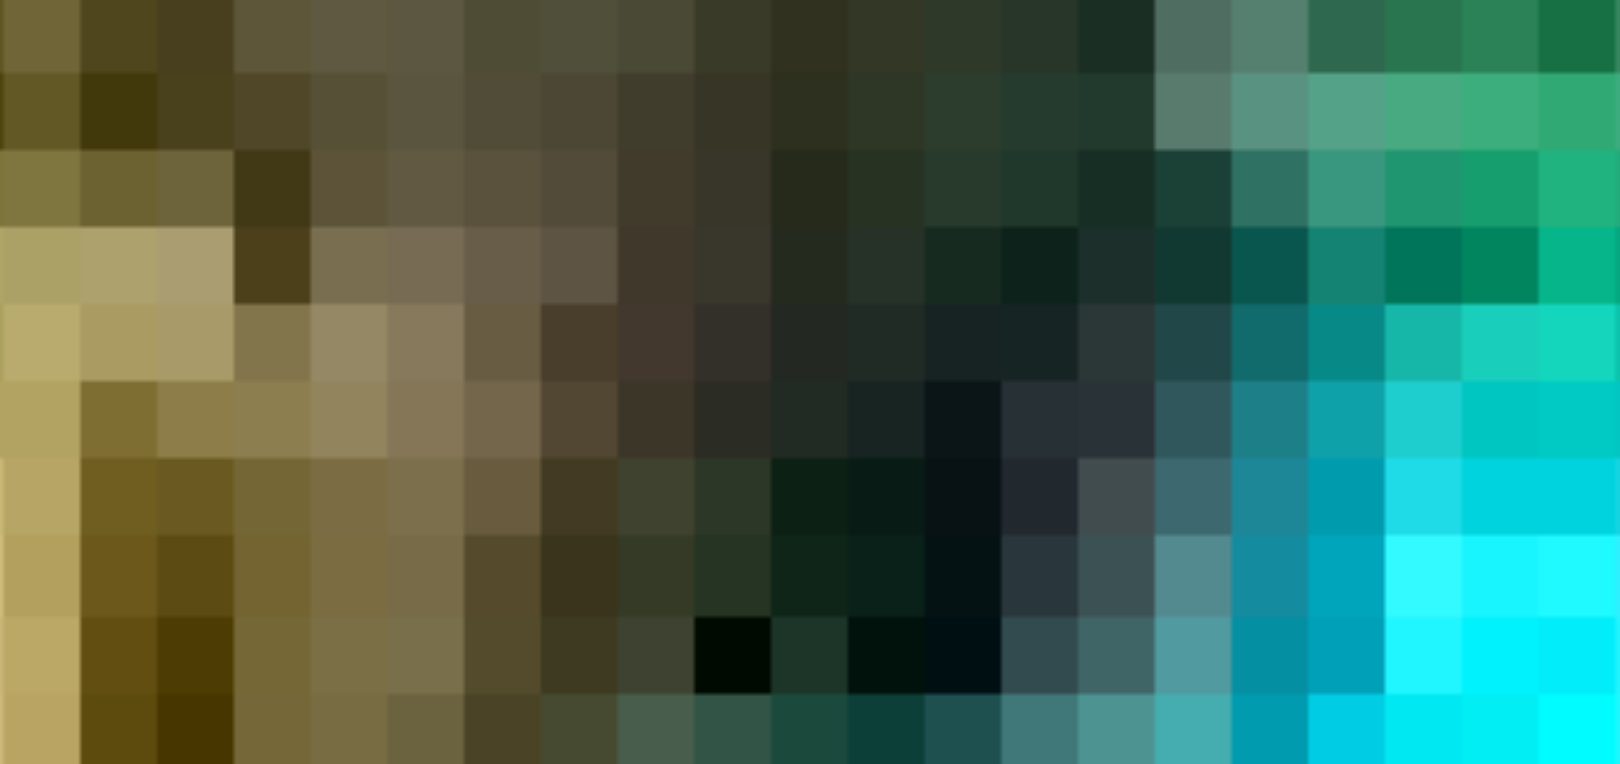
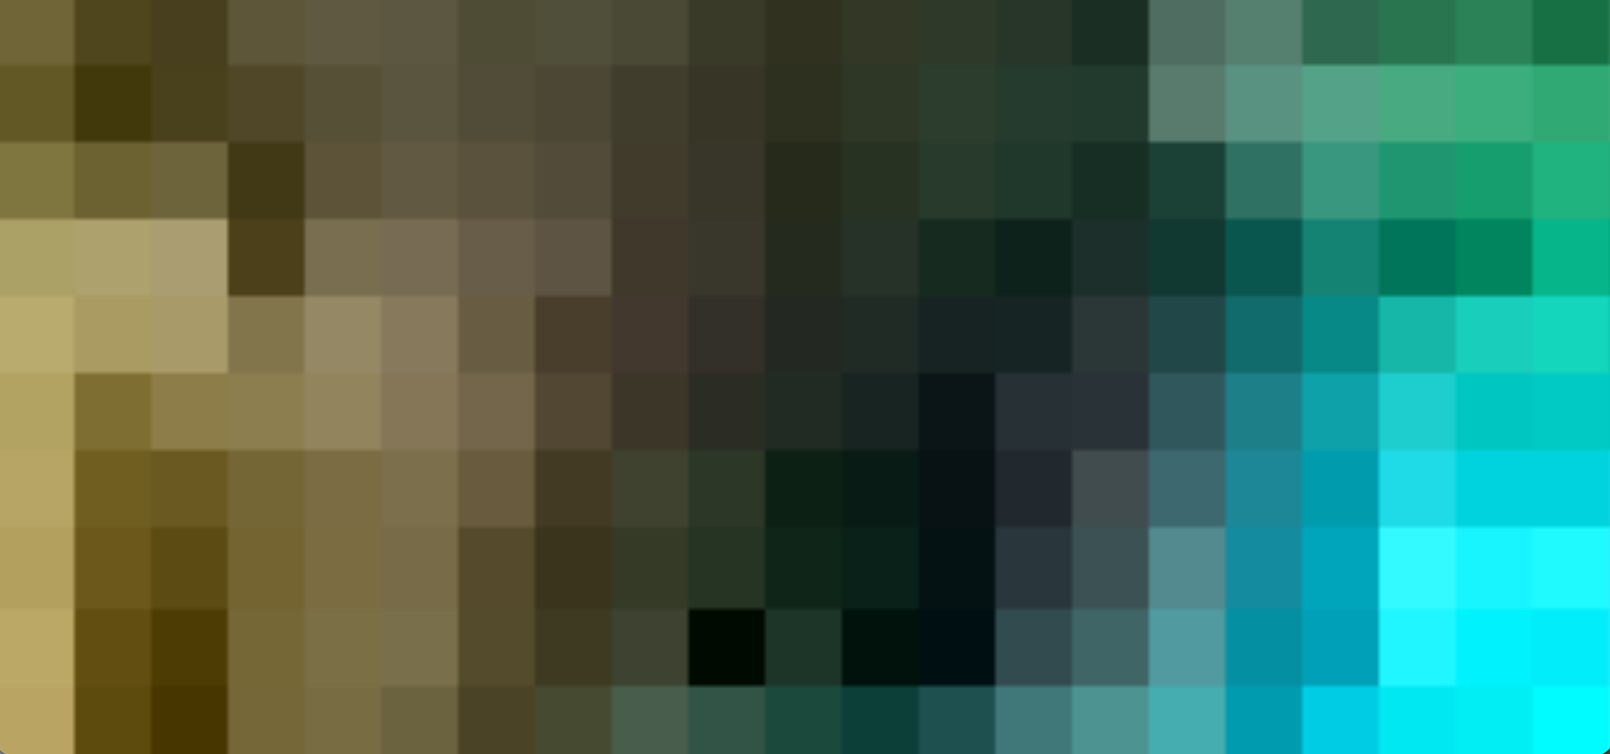
Add files via upload

diff --git a/docs/about.html b/docs/about.html
@@ -7,7 +7,7 @@
     <style>
         /* Basic Styling */
         body {
-            background-image: url('./b11.png');
+            background-image: url('./b14.png');
             background-size: cover; /* Ensures the image covers the entire viewport */
             background-repeat: no-repeat; /* Prevents the image from repeating */
             background-attachment: fixed; /* Optional: Keeps the background fixed while scrolling */
